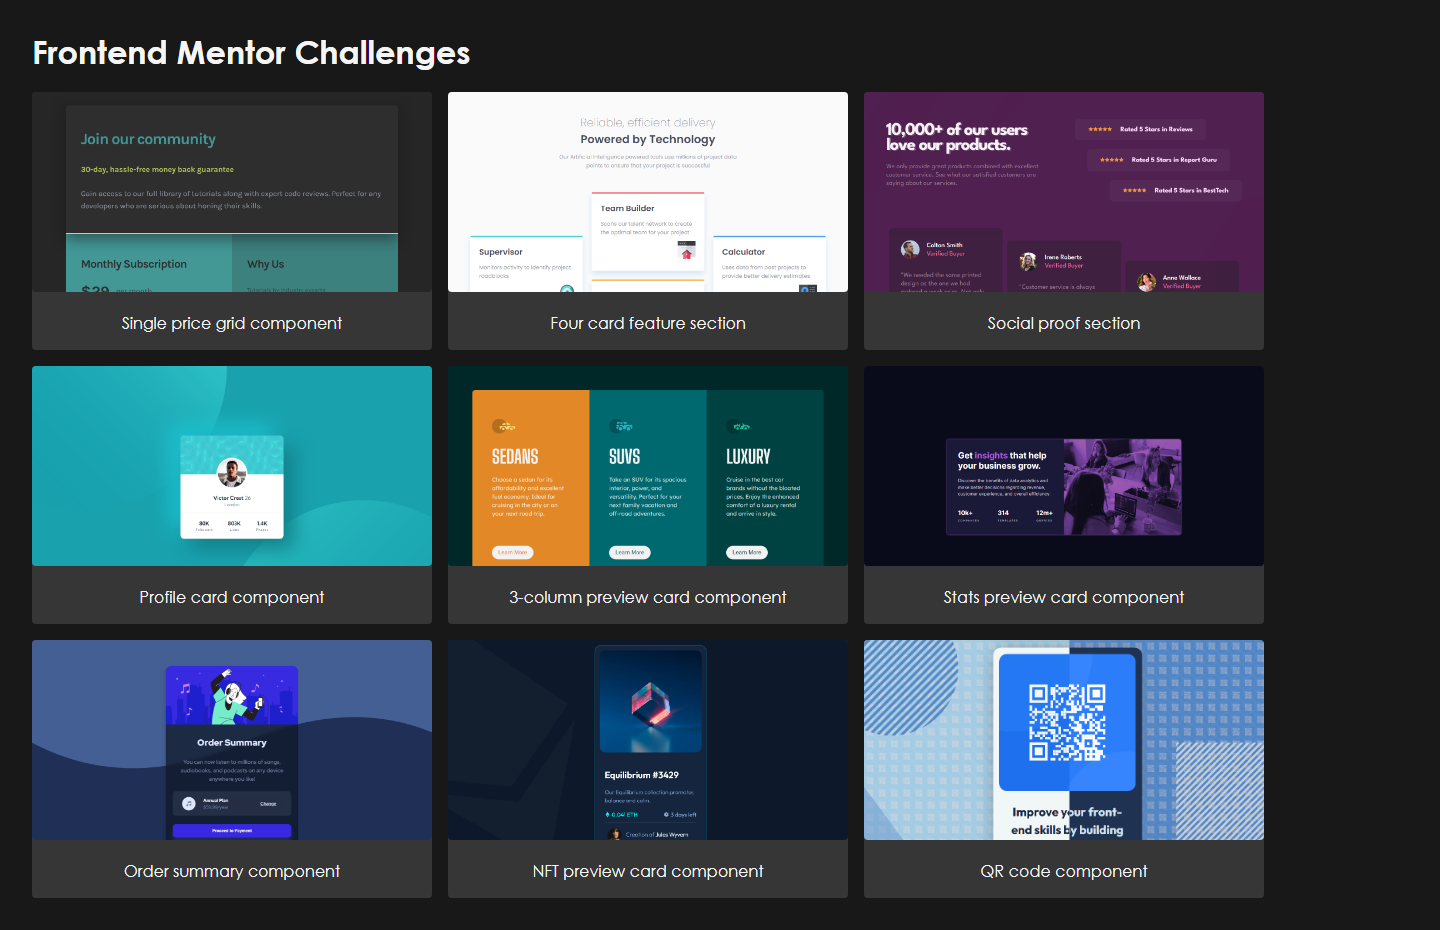
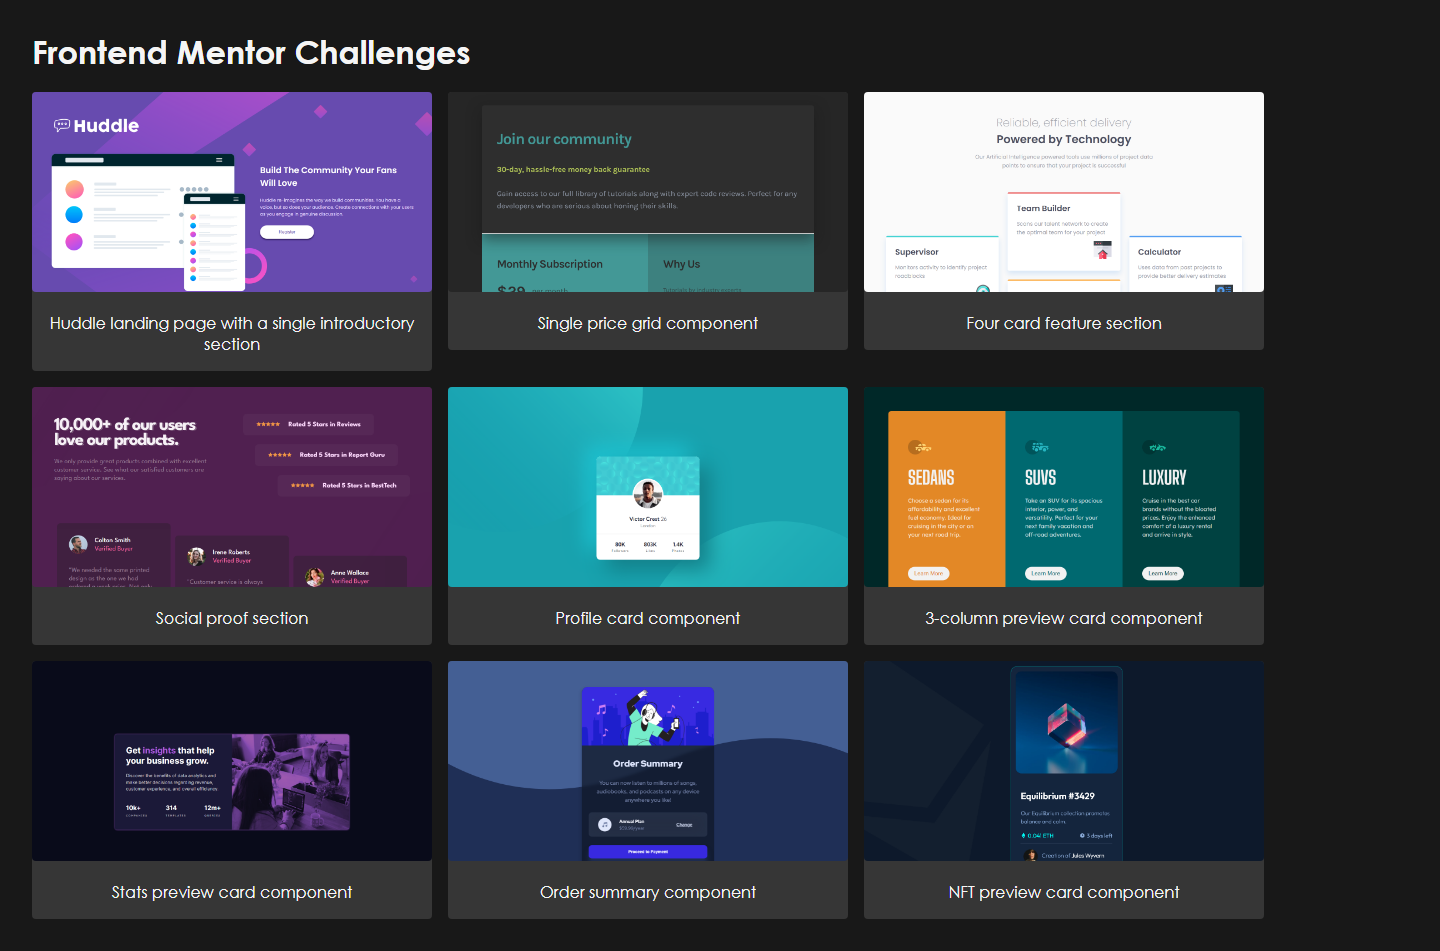
huddle-landing-page-with-single-introductory-section-master

diff --git a/index.html b/index.html
@@ -80,11 +80,26 @@
                 >
                     <img
                         src="./SSSS"
-                        alt="challenge-SSSS"
+                        alt="SSSS"
                     />
                     <figcaption>SSSS</figcaption>
                 </a>
             </figure> -->
+            <figure>
+                <a
+                    href="https://rehberbey.github.io/Frontend-Mentor-Challenges/huddle-landing-page-with-single-introductory-section-master/dist/index.html"
+                    target="_blank"
+                    rel="noopener noreferrer"
+                >
+                    <img
+                        src="./huddle-landing-page-with-single-introductory-section-master/design/desktop.png"
+                        alt="huddle-landing-page-with-single-introductory-section-master"
+                    />
+                    <figcaption>
+                        Huddle landing page with a single introductory section
+                    </figcaption>
+                </a>
+            </figure>
             <figure>
                 <a
                     href="https://rehberbey.github.io/Frontend-Mentor-Challenges/single-price-grid-component-master/dist/index.html"
